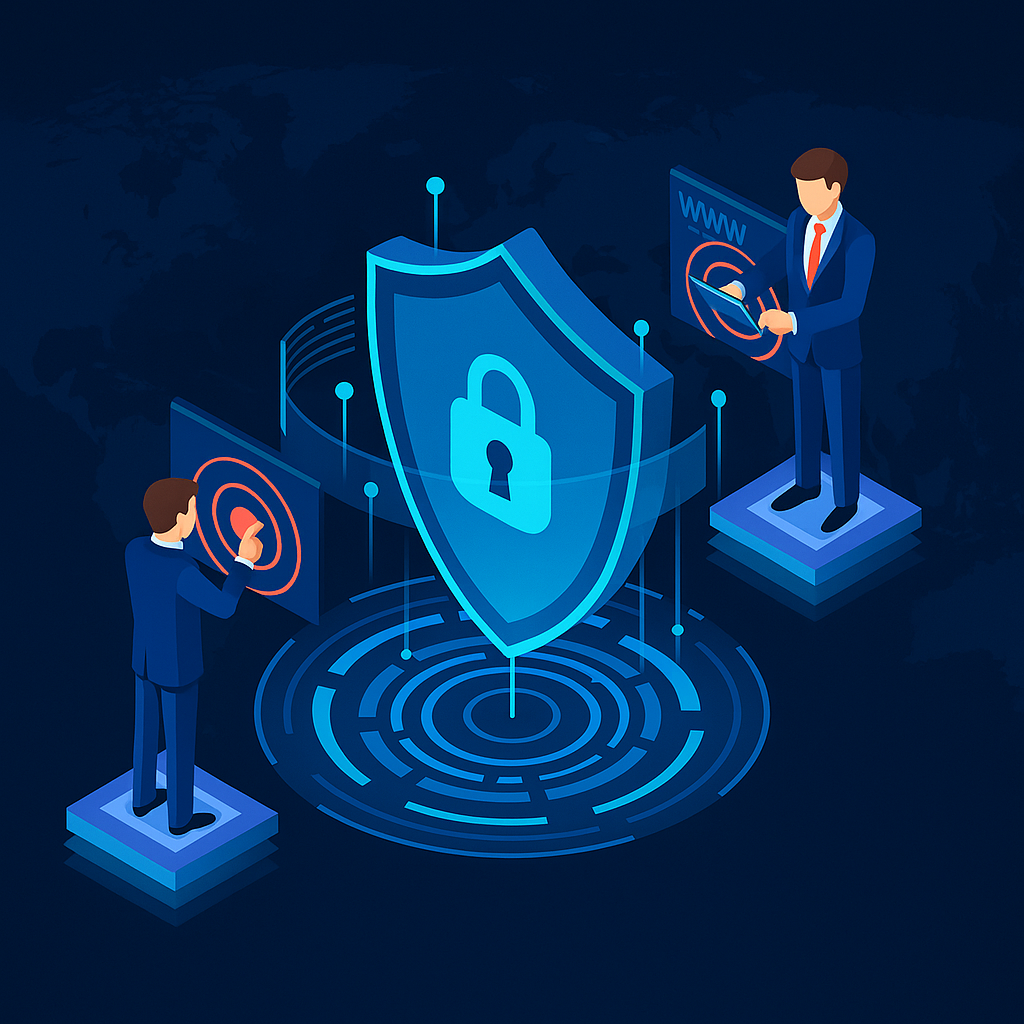
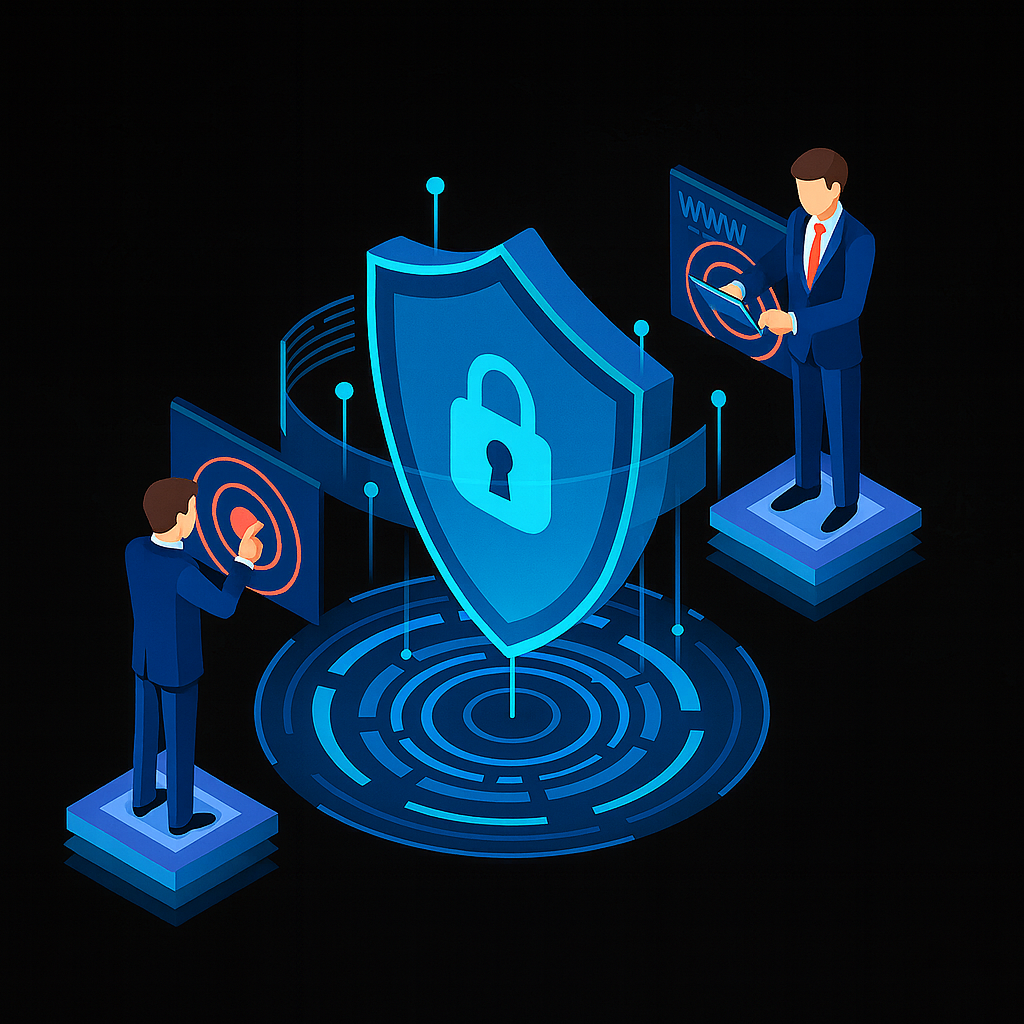
new changes

diff --git a/resources/js/Pages/Organization/Dashboard.jsx b/resources/js/Pages/Organization/Dashboard.jsx
@@ -1,5 +1,8 @@
 import { Head } from '@inertiajs/react';
 import DashboardCard from '@/Components/DashboardCard';
+import AnalyticsCard from '@/Components/AnalyticsCard';
+import ChartPlaceholder from '@/Components/ChartPlaceholder';
+import SideStat from '@/Components/SideStat';
 import FeatureGridItem from '@/Components/FeatureGridItem';
 import DashboardLayout from '@/Layouts/DashboardLayout';
 import { Gift, Bitcoin, FileText, Server, Star } from 'lucide-react';
@@ -14,15 +17,32 @@ export default function Dashboard({ user }) {
             <DashboardCard title="Reports" value="45" icon={<FileText />} bgColor="bg-purple-700" />
             <DashboardCard title="Active Bounties" value="12" icon={<Star />} bgColor="bg-indigo-700" />
             <DashboardCard title="Payments" value="₦23.44" icon={<span className="text-3xl">₦</span>} bgColor="bg-indigo-700" />
-        </div>
+           
+       </div>
 
-        {/* <div className="grid grid-cols-1 md:grid-cols-3 gap-4">
-            <FeatureGridItem label="Gift Cards" icon={<Gift />} />
-            <FeatureGridItem label="Crypto" icon={<Bitcoin />} />
-            <FeatureGridItem label="Reports" icon={<FileText />} />
-            <FeatureGridItem label="Infrastructure" icon={<Server />} />
-            <FeatureGridItem label="Reputation" icon={<Star />} isNew />
-        </div> */}
+       <div className="grid grid-cols-1 lg:grid-cols-3 gap-6">
+                    
+            {/* Charts Section */}
+            <div className="lg:col-span-2 space-y-6">
+                <AnalyticsCard title="Cumulative MRR added this month">
+                    <ChartPlaceholder height="h-64" />
+                </AnalyticsCard>
+
+                <AnalyticsCard title="Signups and Day-2 Active (by week)">
+                    <ChartPlaceholder height="h-56" />
+                </AnalyticsCard>
+            </div>
+
+            {/* Side Stats */}
+            <div className="space-y-4">
+                <SideStat label="Paying customers" value="9,875" />
+                <SideStat label="Free plan users" value="23.5k" />
+                <SideStat label="Signups this month" value="5,145" />
+                <SideStat label="Daily Active Users" value="4,581" />
+                <SideStat label="Monthly Active Users" value="8,959" />
+                <SideStat label="DAU / MAU" value="51.1%" />
+            </div>
+        </div>
         </DashboardLayout>
     </>
     );

diff --git a/resources/js/Pages/Analyst/Dashboard.jsx b/resources/js/Pages/Analyst/Dashboard.jsx
@@ -1,5 +1,8 @@
 import { Head } from '@inertiajs/react';
 import DashboardCard from '@/Components/DashboardCard';
+import AnalyticsCard from '@/Components/AnalyticsCard';
+import ChartPlaceholder from '@/Components/ChartPlaceholder';
+import SideStat from '@/Components/SideStat';
 import FeatureGridItem from '@/Components/FeatureGridItem';
 import DashboardLayout from '@/Layouts/DashboardLayout';
 import { Gift, Bitcoin, FileText, Server, Star } from 'lucide-react';
@@ -16,13 +19,29 @@ export default function Dashboard({ user }) {
             <DashboardCard title="Payments" value="₦23.44" icon={<span className="text-3xl">₦</span>} bgColor="bg-indigo-700" />
         </div>
 
-        {/* <div className="grid grid-cols-1 md:grid-cols-3 gap-4">
-            <FeatureGridItem label="Gift Cards" icon={<Gift />} />
-            <FeatureGridItem label="Crypto" icon={<Bitcoin />} />
-            <FeatureGridItem label="Reports" icon={<FileText />} />
-            <FeatureGridItem label="Infrastructure" icon={<Server />} />
-            <FeatureGridItem label="Reputation" icon={<Star />} isNew />
-        </div> */}
+        <div className="grid grid-cols-1 lg:grid-cols-3 gap-6">
+                    
+                    {/* Charts Section */}
+                    <div className="lg:col-span-2 space-y-6">
+                        <AnalyticsCard title="Cumulative MRR added this month">
+                            <ChartPlaceholder height="h-64" />
+                        </AnalyticsCard>
+        
+                        <AnalyticsCard title="Signups and Day-2 Active (by week)">
+                            <ChartPlaceholder height="h-56" />
+                        </AnalyticsCard>
+                    </div>
+        
+                    {/* Side Stats */}
+                    <div className="space-y-4">
+                        <SideStat label="Paying customers" value="9,875" />
+                        <SideStat label="Free plan users" value="23.5k" />
+                        <SideStat label="Signups this month" value="5,145" />
+                        <SideStat label="Daily Active Users" value="4,581" />
+                        <SideStat label="Monthly Active Users" value="8,959" />
+                        <SideStat label="DAU / MAU" value="51.1%" />
+                    </div>
+                </div>
         </DashboardLayout>
     </>
     );

diff --git a/resources/js/Pages/Researcher/Dashboard.jsx b/resources/js/Pages/Researcher/Dashboard.jsx
@@ -1,5 +1,8 @@
 import { Head } from '@inertiajs/react';
 import DashboardCard from '@/Components/DashboardCard';
+import AnalyticsCard from '@/Components/AnalyticsCard';
+import ChartPlaceholder from '@/Components/ChartPlaceholder';
+import SideStat from '@/Components/SideStat';
 import FeatureGridItem from '@/Components/FeatureGridItem';
 import DashboardLayout from '@/Layouts/DashboardLayout';
 import { Gift, Bitcoin, FileText, Server, Star } from 'lucide-react';
@@ -16,13 +19,29 @@ export default function Dashboard({ user }) {
             <DashboardCard title="Payments" value="₦23.44" icon={<span className="text-3xl">₦</span>} bgColor="bg-indigo-700" />
         </div>
 
-        {/* <div className="grid grid-cols-1 md:grid-cols-3 gap-4">
-            <FeatureGridItem label="Gift Cards" icon={<Gift />} />
-            <FeatureGridItem label="Crypto" icon={<Bitcoin />} />
-            <FeatureGridItem label="Reports" icon={<FileText />} />
-            <FeatureGridItem label="Infrastructure" icon={<Server />} />
-            <FeatureGridItem label="Reputation" icon={<Star />} isNew />
-        </div> */}
+        <div className="grid grid-cols-1 lg:grid-cols-3 gap-6">
+                    
+                    {/* Charts Section */}
+                    <div className="lg:col-span-2 space-y-6">
+                        <AnalyticsCard title="Cumulative MRR added this month">
+                            <ChartPlaceholder height="h-64" />
+                        </AnalyticsCard>
+        
+                        <AnalyticsCard title="Signups and Day-2 Active (by week)">
+                            <ChartPlaceholder height="h-56" />
+                        </AnalyticsCard>
+                    </div>
+        
+                    {/* Side Stats */}
+                    <div className="space-y-4">
+                        <SideStat label="Paying customers" value="9,875" />
+                        <SideStat label="Free plan users" value="23.5k" />
+                        <SideStat label="Signups this month" value="5,145" />
+                        <SideStat label="Daily Active Users" value="4,581" />
+                        <SideStat label="Monthly Active Users" value="8,959" />
+                        <SideStat label="DAU / MAU" value="51.1%" />
+                    </div>
+                </div>
         </DashboardLayout>
     </>
     );

diff --git a/resources/js/Pages/Team/Dashboard.jsx b/resources/js/Pages/Team/Dashboard.jsx
@@ -1,5 +1,8 @@
 import { Head } from '@inertiajs/react';
 import DashboardCard from '@/Components/DashboardCard';
+import AnalyticsCard from '@/Components/AnalyticsCard';
+import ChartPlaceholder from '@/Components/ChartPlaceholder';
+import SideStat from '@/Components/SideStat';
 import FeatureGridItem from '@/Components/FeatureGridItem';
 import DashboardLayout from '@/Layouts/DashboardLayout';
 import { Gift, Bitcoin, FileText, Server, Star } from 'lucide-react';
@@ -16,13 +19,29 @@ export default function Dashboard({ user }) {
             <DashboardCard title="Payments" value="₦23.44" icon={<span className="text-3xl">₦</span>} bgColor="bg-indigo-700" />
         </div>
 
-        {/* <div className="grid grid-cols-1 md:grid-cols-3 gap-4">
-            <FeatureGridItem label="Gift Cards" icon={<Gift />} />
-            <FeatureGridItem label="Crypto" icon={<Bitcoin />} />
-            <FeatureGridItem label="Reports" icon={<FileText />} />
-            <FeatureGridItem label="Infrastructure" icon={<Server />} />
-            <FeatureGridItem label="Reputation" icon={<Star />} isNew />
-        </div> */}
+        <div className="grid grid-cols-1 lg:grid-cols-3 gap-6">
+                    
+                    {/* Charts Section */}
+                    <div className="lg:col-span-2 space-y-6">
+                        <AnalyticsCard title="Cumulative MRR added this month">
+                            <ChartPlaceholder height="h-64" />
+                        </AnalyticsCard>
+        
+                        <AnalyticsCard title="Signups and Day-2 Active (by week)">
+                            <ChartPlaceholder height="h-56" />
+                        </AnalyticsCard>
+                    </div>
+        
+                    {/* Side Stats */}
+                    <div className="space-y-4">
+                        <SideStat label="Paying customers" value="9,875" />
+                        <SideStat label="Free plan users" value="23.5k" />
+                        <SideStat label="Signups this month" value="5,145" />
+                        <SideStat label="Daily Active Users" value="4,581" />
+                        <SideStat label="Monthly Active Users" value="8,959" />
+                        <SideStat label="DAU / MAU" value="51.1%" />
+                    </div>
+                </div>
         </DashboardLayout>
     </>
     );

diff --git a/resources/js/Components/StatCard.jsx b/resources/js/Components/StatCard.jsx
@@ -1,0 +1,29 @@
+export default function StatCard({ title, value, trend, positive, negative }) {
+    return (
+        <div className="rounded-xl p-4 bg-white dark:bg-gray-900 border border-gray-200 dark:border-gray-800">
+            <p className="text-sm text-gray-500 dark:text-gray-400">{title}</p>
+
+            <div className="flex items-center justify-between mt-2">
+                <h2 className="text-2xl font-semibold text-gray-900 dark:text-white">
+                    {value}
+                </h2>
+
+                {trend && (
+                    <span
+                        className={`flex items-center text-sm font-medium ${
+                            positive
+                                ? 'text-green-600'
+                                : negative
+                                ? 'text-red-500'
+                                : 'text-gray-500'
+                        }`}
+                    >
+                        {positive && <ArrowUpRight size={16} />}
+                        {negative && <ArrowDownRight size={16} />}
+                        {trend}
+                    </span>
+                )}
+            </div>
+        </div>
+    );
+}

diff --git a/resources/js/Pages/Auth/ResetPassword.jsx b/resources/js/Pages/Auth/ResetPassword.jsx
@@ -136,7 +136,7 @@ export default function ResetPassword({ token, email }) {
                 {/* Right Panel */}
                 <div className="hidden md:flex w-1/2 bg-[#263178] items-center justify-center p-6 shadow-2xl overflow-hidden">
                     <img
-                        src="/images/bluestrike-illustration.png"
+                        src="/images/bluestrike-illustration_2.png"
                         alt="Bluestrike Illustration"
                         className="max-w-[700px] w-full h-auto object-contain rounded-xl"
                     />

diff --git a/resources/js/Pages/Auth/Register.jsx b/resources/js/Pages/Auth/Register.jsx
@@ -349,7 +349,7 @@ export default function Register({ states = [] }) {
                  {/* Right Panel */}
                 <div className="hidden md:flex w-1/2 bg-[#263178] items-center justify-center p-6 shadow-2xl overflow-hidden">
                     <img
-                        src="/images/bluestrike-illustration.png"
+                        src="/images/bluestrike-illustration_2.png"
                         alt="Bluestrike Illustration"
                         className="max-w-[700px] w-full h-auto object-contain rounded-xl"
                     />

diff --git a/resources/js/Pages/Auth/EmailTwoFactorChallenge.jsx b/resources/js/Pages/Auth/EmailTwoFactorChallenge.jsx
@@ -105,7 +105,7 @@ export default function EmailTwoFactorChallenge() {
                 {/* Right Panel */}
                 <div className="hidden md:flex w-1/2 bg-[#263178] items-center justify-center p-6 shadow-2xl overflow-hidden">
                     <img
-                        src="/images/bluestrike-illustration.png"
+                        src="/images/bluestrike-illustration_2.png"
                         alt="Bluestrike Illustration"
                         className="max-w-[700px] w-full h-auto object-contain rounded-xl"
                     />

diff --git a/resources/js/Pages/Auth/ForgotPassword.jsx b/resources/js/Pages/Auth/ForgotPassword.jsx
@@ -86,7 +86,7 @@ export default function ForgotPassword({ status }) {
                  {/* Right Panel */}
                 <div className="hidden md:flex w-1/2 bg-[#263178] items-center justify-center p-6 shadow-2xl overflow-hidden">
                     <img
-                        src="/images/bluestrike-illustration.png"
+                        src="/images/bluestrike-illustration_2.png"
                         alt="Bluestrike Illustration"
                         className="max-w-[700px] w-full h-auto object-contain rounded-xl"
                     />

diff --git a/resources/js/Pages/Auth/VerifyEmail.jsx b/resources/js/Pages/Auth/VerifyEmail.jsx
@@ -76,7 +76,7 @@ export default function VerifyEmail({ status }) {
                  {/* Right Panel */}
                  <div className="hidden md:flex w-1/2 bg-[#263178] items-center justify-center p-6 shadow-2xl overflow-hidden">
                     <img
-                        src="/images/bluestrike-illustration.png"
+                        src="/images/bluestrike-illustration_2.png"
                         alt="Bluestrike Illustration"
                         className="max-w-[700px] w-full h-auto object-contain rounded-xl"
                     />

diff --git a/resources/js/Pages/Auth/TotpTwoFactorChallenge.jsx b/resources/js/Pages/Auth/TotpTwoFactorChallenge.jsx
@@ -102,7 +102,7 @@ export default function TwoFactorChallenge() {
                 {/* Right Panel */}
                 <div className="hidden md:flex w-1/2 bg-[#263178] items-center justify-center p-6 shadow-2xl overflow-hidden">
                     <img
-                        src="/images/bluestrike-illustration.png"
+                        src="/images/bluestrike-illustration_2.png"
                         alt="Bluestrike Illustration"
                         className="max-w-[700px] w-full h-auto object-contain rounded-xl"
                     />

diff --git a/resources/js/Pages/Auth/ConfirmPassword.jsx b/resources/js/Pages/Auth/ConfirmPassword.jsx
@@ -84,7 +84,7 @@ export default function ConfirmPassword() {
                 {/* Right Panel */}
                 <div className="hidden md:flex w-1/2 bg-[#263178] items-center justify-center p-6 shadow-2xl overflow-hidden">
                     <img
-                        src="/images/bluestrike-illustration.png"
+                        src="/images/bluestrike-illustration_@.png"
                         alt="Bluestrike Illustration"
                         className="max-w-[700px] w-full h-auto object-contain rounded-xl"
                     />
